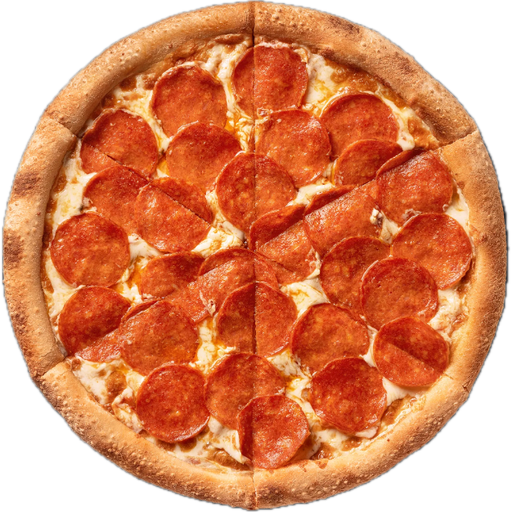
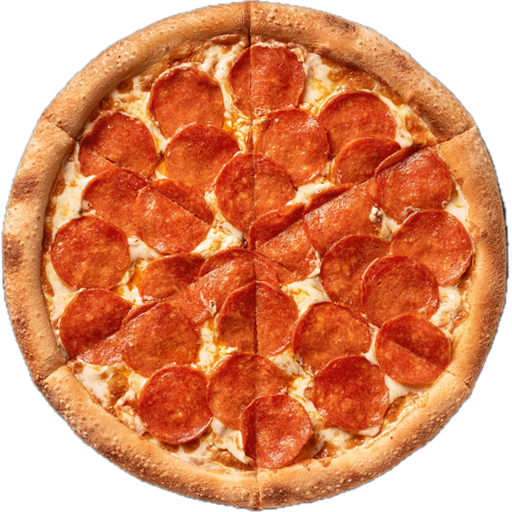
Rotate pizza 1deg CCW, update route map image, tweak card 6 copy
- Rotate pizza photo an extra 1 degree counter-clockwise
- Replace route-map.png with new map illustration
- Remove "первому" from card 6 heading

Generated with [Devin](https://devin.ai)

Changed region(s): [[0.0, 0.0, 1.0, 1.0]]

diff --git a/index.html b/index.html
@@ -1586,7 +1586,7 @@
                 </div>
                 <!-- Card 6 -->
                 <div class="pizza-card">
-                        <h3>Готовы к первому маршруту?</h3>
+                        <h3>Готовы к маршруту?</h3>
                     <img src="route-map.png" alt="Маршрут" class="card-img">
                 </div>
             </div>
